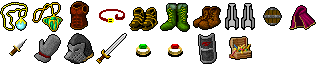
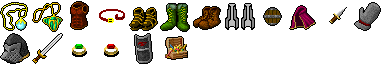
Version 85 - 30-Dec-2013 - General   - Changed combined image columns from 10 to 12 since it works better for math. - Spells   - Updated spells to use the new combined image method added for everything else in v84.     - This further reduced image load requests from 26 down to 6. New method of loadi

diff --git a/spells.js b/spells.js
@@ -27,30 +27,36 @@ function SpellToolbar()
     for( var ix = 0; ix < this.spell_list.length; ++ix )
     {
       var spell_btn = $("#spell"+ix);
-      var html = "";
+      var html = "<canvas width=\"" + TILE_WIDTH + "\" height=\"" + TILE_WIDTH + "\"></canvas>";
       var title = "";
+      var xml = null;
+      var toolbar_img = null;
       
       spell_btn.removeClass("active");
       
       if( this.spell_list[ix] != "" )
       {
-        var xml = Loader.get_spell_data( this.spell_list[ix] );
-        var toolbar_img = parseInt( xml.attr("toolbar_id") );
-        
-        if( !isNaN( toolbar_img ) )
-        {
-          html = "<img src=\"" + Images.SPELL_IMAGES[toolbar_img].src + "\"/>";
-          title = ( ix + 1 ) + " - " + xml.find("Description").text();
-        }
+        xml = Loader.get_spell_data( this.spell_list[ix] );
+        toolbar_img = parseInt( xml.attr("toolbar_id") );
       }
       
-      if( html == "" )
+      if( toolbar_img != null )
       {
-        html = "<img src=\"images/blank.png\"/>";
+        title = ( ix + 1 ) + " - " + xml.find("Description").text();
+      }
+      else
+      {
         spell_btn.button("toggle");
       }
       
       spell_btn.empty().html( html ).attr( "title", title );
+
+      if( toolbar_img != null )
+      {
+        var ctx = spell_btn.find("canvas")[0].getContext("2d");
+        var img_loc = convert_tile_ix_to_point( toolbar_img );
+        ctx.drawImage( Images.SPELL_IMAGES, img_loc.x, img_loc.y, TILE_WIDTH, TILE_WIDTH, 0, 0, TILE_WIDTH, TILE_WIDTH );
+      }
     }
   };
   
@@ -577,7 +583,7 @@ function SpellEffect( spell_id )
   this.spell_id = spell_id;
   this.canvas_x = 0;
   this.canvas_y = 0;
-  this.img = Images.SPELL_IMAGES[spell_id];
+  this.img_loc = convert_tile_ix_to_point( spell_id );
 }
 
 SpellEffect.prototype.set_spell_action = function( spell_action )
@@ -591,7 +597,7 @@ SpellEffect.prototype.draw = function( ctx )
   
   //Log.debug( "Drawing frame for spell " + this.spell_id );
   this.update_frame( ctx );
-  ctx.drawImage( this.img, this.canvas_x, this.canvas_y );
+  ctx.drawImage( Images.SPELL_IMAGES, this.img_loc.x, this.img_loc.y, TILE_WIDTH, TILE_WIDTH, this.canvas_x, this.canvas_y, TILE_WIDTH, TILE_WIDTH );
   
   ctx.restore();
 };
@@ -705,7 +711,7 @@ SinglePointRotatingFadingSpellEffect.prototype.draw = function( ctx )
   ctx.save();
   
   this.update_frame( ctx );
-  ctx.drawImage( this.img, -(TILE_WIDTH/2), -(TILE_WIDTH/2), TILE_WIDTH, TILE_WIDTH );
+  ctx.drawImage( Images.SPELL_IMAGES, this.img_loc.x, this.img_loc.y, TILE_WIDTH, TILE_WIDTH, -(TILE_WIDTH/2), -(TILE_WIDTH/2), TILE_WIDTH, TILE_WIDTH );
   
   ctx.restore();
 };
@@ -840,7 +846,7 @@ ProjectileSpellEffect.prototype.draw = function( ctx )
   ctx.save();
   
   this.update_frame( ctx );
-  ctx.drawImage( this.img, -(TILE_WIDTH/2), -(TILE_WIDTH/2) );
+  ctx.drawImage( Images.SPELL_IMAGES, this.img_loc.x, this.img_loc.y, TILE_WIDTH, TILE_WIDTH, -(TILE_WIDTH/2), -(TILE_WIDTH/2), TILE_WIDTH, TILE_WIDTH );
   
   ctx.restore();
 };
@@ -890,10 +896,11 @@ ProjectileSpellEffect.prototype.has_collided_with_unexpected_obstacle = function
 
 function ScalingRotatingFadingSpellEffect( spell_id, target )
 {
+  ScalingRotatingFadingSpellEffect.base_constructor.call( this, spell_id, target );
+
   this.scale = 0.25;
   this.alpha = 0;
-  
-  ScalingRotatingFadingSpellEffect.base_constructor.call( this, spell_id, target );
+  this.img_loc = convert_big_tile_ix_to_point( spell_id );
 }
 extend( ScalingRotatingFadingSpellEffect, SinglePointRotatingFadingSpellEffect );
 
@@ -917,7 +924,7 @@ ScalingRotatingFadingSpellEffect.prototype.draw = function( ctx )
   ctx.save();
   
   this.update_frame( ctx );
-  ctx.drawImage( this.img, -(AREA_SPELL_WIDTH/2), -(AREA_SPELL_WIDTH/2) );
+  ctx.drawImage( Images.BIG_SPELL_IMAGES, this.img_loc.x, this.img_loc.y, AREA_SPELL_WIDTH, AREA_SPELL_WIDTH, -(AREA_SPELL_WIDTH/2), -(AREA_SPELL_WIDTH/2), AREA_SPELL_WIDTH, AREA_SPELL_WIDTH );
   
   ctx.restore();
 };
@@ -962,6 +969,7 @@ function ConeSpellEffect( spell_id, source, target )
 {
   ConeSpellEffect.base_constructor.call( this, spell_id );
   
+  this.img_loc = convert_big_tile_ix_to_point( spell_id );
   this.GROWTH_RATE = 4;
   
   this.source = new Point( source.x, source.y );
@@ -1038,7 +1046,7 @@ ConeSpellEffect.prototype.draw = function( ctx )
   ctx.save();
   
   this.update_frame( ctx );
-  ctx.drawImage( this.img, -(AREA_SPELL_WIDTH/2), -(AREA_SPELL_WIDTH/2) );
+  ctx.drawImage( Images.BIG_SPELL_IMAGES, this.img_loc.x, this.img_loc.y, AREA_SPELL_WIDTH, AREA_SPELL_WIDTH, -(AREA_SPELL_WIDTH/2), -(AREA_SPELL_WIDTH/2), AREA_SPELL_WIDTH, AREA_SPELL_WIDTH );
  
   ctx.restore();
 };

diff --git a/TPOC/ImageCombiner/combiner.html b/TPOC/ImageCombiner/combiner.html
@@ -11,6 +11,8 @@
     <option value="1">Items</option>
     <option value="2">Paperdoll</option>
     <option value="3">Monsters</option>
+    <option value="4">Spells - Small</option>
+    <option value="5">Spells - Big</option>
   </select>
   <button onclick="combine();">GO!</button>
   <p>
@@ -19,7 +21,7 @@
   </p>
 
   <script type="text/javascript">
-    var NUM_COLUMNS = 10;
+    var NUM_COLUMNS = 12;
     var TILE_WIDTH = 32;
 
     var data = null;
@@ -96,10 +98,21 @@
       var type = parseInt($("#type").val());
 
       switch (type) {
-        case 0: load_images_from_xml(data.find("Tile"), "tiles"); break;
-        case 1: load_images_from_xml(data.find("ItemImage"), "items"); break;
-        case 2: load_images_from_xml(data.find("DollImage"), "paperdoll"); break;
-        case 3: load_images_from_xml(data.find("Monster"), "monsters"); break;
+        case 0:
+        case 1:
+        case 2:
+        case 3:
+        case 4: TILE_WIDTH = 32; NUM_COLUMNS = 12; break;
+        case 5: TILE_WIDTH = 96; NUM_COLUMNS =  3; break;
+      }
+
+      switch (type) {
+        case 0: load_images_from_xml( data.find("Tile"), "tiles" ); break;
+        case 1: load_images_from_xml( data.find("ItemImage"), "items" ); break;
+        case 2: load_images_from_xml( data.find("DollImage"), "paperdoll" ); break;
+        case 3: load_images_from_xml( data.find("Monster"), "monsters" ); break;
+        case 4: load_images_from_xml( data.find("Spells").find("Images").find("Small").find("Image"), "spells" ); break;
+        case 5: load_images_from_xml( data.find("Spells").find("Images").find("Big").find("Image"), "spells" ); break;
       }
     }
 
@@ -109,7 +122,7 @@
       $("#combined").hide();
 
       $.get("../../game_data.xml", function (xml) {
-        data = $(xml);
+        data = $($.parseXML(xml));
       });
     });
 

diff --git a/index.prod.html b/index.prod.html
@@ -87,14 +87,14 @@
           </ul>
         </div>     
         <div id="spell_bar" class="btn-group">
-          <button id="spell0" class="btn" onclick="cast_spell(0);"></button>
-          <button id="spell1" class="btn" onclick="cast_spell(1);"></button>
-          <button id="spell2" class="btn" onclick="cast_spell(2);"></button>
-          <button id="spell3" class="btn" onclick="cast_spell(3);"></button>
-          <button id="spell4" class="btn" onclick="cast_spell(4);"></button>
-          <button id="spell5" class="btn" onclick="cast_spell(5);"></button>
-          <button id="spell6" class="btn" onclick="cast_spell(6);"></button>
-          <button class="btn dropdown-toggle" data-toggle="dropdown"><img src="images/gear.png"/> <b class="caret"></b></button>
+          <button id="spell0" class="btn btn-img" onclick="cast_spell(0);"></button>
+          <button id="spell1" class="btn btn-img" onclick="cast_spell(1);"></button>
+          <button id="spell2" class="btn btn-img" onclick="cast_spell(2);"></button>
+          <button id="spell3" class="btn btn-img" onclick="cast_spell(3);"></button>
+          <button id="spell4" class="btn btn-img" onclick="cast_spell(4);"></button>
+          <button id="spell5" class="btn btn-img" onclick="cast_spell(5);"></button>
+          <button id="spell6" class="btn btn-img" onclick="cast_spell(6);"></button>
+          <button class="btn btn-img dropdown-toggle" data-toggle="dropdown"><img src="images/gear.png" /> <b class="caret"></b></button>
           <ul id="other_actions_menu" class="dropdown-menu pull-right">
             <li><a href="#char_info" role="button" data-toggle="modal">Character Info...</a></li>
             <li><a href="#customize_spells" role="button" data-toggle="modal">Customize Spell Menu...</a></li>

diff --git a/index.html b/index.html
@@ -111,14 +111,14 @@
 	        </ul>
 	      </div>     
 	      <div id="spell_bar" class="btn-group">
-	        <button id="spell0" class="btn" onclick="cast_spell(0);"></button>
-	        <button id="spell1" class="btn" onclick="cast_spell(1);"></button>
-	        <button id="spell2" class="btn" onclick="cast_spell(2);"></button>
-	        <button id="spell3" class="btn" onclick="cast_spell(3);"></button>
-	        <button id="spell4" class="btn" onclick="cast_spell(4);"></button>
-	        <button id="spell5" class="btn" onclick="cast_spell(5);"></button>
-	        <button id="spell6" class="btn" onclick="cast_spell(6);"></button>
-	        <button class="btn dropdown-toggle" data-toggle="dropdown"><img src="images/gear.png"/> <b class="caret"></b></button>
+	        <button id="spell0" class="btn btn-img" onclick="cast_spell(0);"></button>
+          <button id="spell1" class="btn btn-img" onclick="cast_spell(1);"></button>
+          <button id="spell2" class="btn btn-img" onclick="cast_spell(2);"></button>
+          <button id="spell3" class="btn btn-img" onclick="cast_spell(3);"></button>
+          <button id="spell4" class="btn btn-img" onclick="cast_spell(4);"></button>
+          <button id="spell5" class="btn btn-img" onclick="cast_spell(5);"></button>
+          <button id="spell6" class="btn btn-img" onclick="cast_spell(6);"></button>
+          <button class="btn btn-img dropdown-toggle" data-toggle="dropdown"><img src="images/gear.png" /> <b class="caret"></b></button>
 	        <ul id="other_actions_menu" class="dropdown-menu pull-right">
 	          <li><a href="#char_info" role="button" data-toggle="modal">Character Info...</a></li>
 	          <li><a href="#customize_spells" role="button" data-toggle="modal">Customize Spell Menu...</a></li>

diff --git a/image_cache.js b/image_cache.js
@@ -7,7 +7,8 @@ function ImageCache()
   
   this.TILE_IMAGES = null;
   this.MONSTER_IMAGES = null;
-  this.SPELL_IMAGES = new Array();
+  this.SPELL_IMAGES = null;
+  this.BIG_SPELL_IMAGES = null;
   this.ITEM_IMAGES = null;
   this.PAPERDOLL_IMAGES = null;
   
@@ -52,22 +53,23 @@ function ImageCache()
     this.TILE_IMAGES = load_single_image( "tiles_full.png" );
   };
   
-  this.load_spell_images = function( xml )
+  this.load_spell_images = function()
   {
-    load_images_from_xml( xml, this.SPELL_IMAGES, "spells" ); 
+    this.SPELL_IMAGES = load_single_image( "spells_small.png" );
+    this.BIG_SPELL_IMAGES = load_single_image( "spells_big.png" );
   };
-  
-  this.load_monster_images = function( xml )
+ 
+  this.load_monster_images = function()
   {
     this.MONSTER_IMAGES = load_single_image( "monsters_full.png" );
   };
   
-  this.load_item_images = function( xml )
+  this.load_item_images = function()
   {
     this.ITEM_IMAGES = load_single_image( "items_full.png" );
   };
   
-  this.load_paperdoll_images = function( xml )
+  this.load_paperdoll_images = function()
   {
     this.PAPERDOLL_IMAGES = load_single_image( "paperdoll_full.png" );
   };

diff --git a/common.js b/common.js
@@ -1,7 +1,7 @@
 var VIEWPORT_WIDTH  = 30;
 var VIEWPORT_HEIGHT = 15;
 var VIEWPORT_SHIFT  = 2;
-var COMBINED_TILE_COLS = 10;
+var COMBINED_TILE_COLS = 12;
 var MIN_X = 0;
 var MIN_Y = 0;
 var TILE_WIDTH = 32;
@@ -170,6 +170,15 @@ function convert_tile_ix_to_point( value )
   var coord = new Point();
   coord.x = ( value % COMBINED_TILE_COLS ) * TILE_WIDTH;
   coord.y = Math.floor( value / COMBINED_TILE_COLS ) * TILE_WIDTH;
+
+  return coord;
+}
+
+function convert_big_tile_ix_to_point( value )
+{
+  var coord = new Point();
+  coord.x = ( value % 3 ) * TILE_WIDTH * 3;
+  coord.y = Math.floor( value / 3 ) * TILE_WIDTH * 3;
 
   return coord;
 }

diff --git a/debug.js b/debug.js
@@ -4,9 +4,9 @@ var MONSTER_SPELLS = 1;       // Allow applicable monsters to cast spells
 var DETECT_MONSTERS = 0;      // Detect all monsters
 
 var MAGIC_MISSILE = 2;
-var FIREBALL = 5;
-var FIRE_BREATH = 7;
-var FIRE_BREATH_D = 8;
+var FIREBALL = 0;
+var FIRE_BREATH = 1;
+var FIRE_BREATH_D = 2;
 
 var RATMAN = 0;
 var HILLGIANT = 1;

diff --git a/data_loader.js b/data_loader.js
@@ -20,7 +20,7 @@ function DataLoader()
     
     Log.debug( "Loading images..." );
     Images.load_tile_images();
-    Images.load_spell_images( this.xml.find("SpellImage") );
+    Images.load_spell_images();
     Images.load_monster_images();
     Images.load_item_images();
     Images.load_paperdoll_images();

diff --git a/css/style.css b/css/style.css
@@ -22,6 +22,11 @@ body
 	line-height: 32px;
 }
 
+.btn-img
+{
+  height: 42px;
+}
+
 .btn-delete
 {
   width: 22px;
